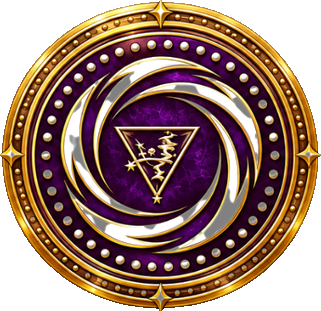
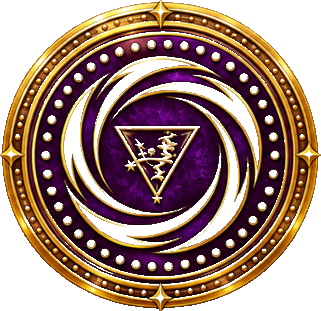
Normalize presentation seal scale and halos

diff --git a/dist/presentacion.html b/dist/presentacion.html
@@ -23,7 +23,7 @@
     .product.soon{opacity:1}.product.soon img{filter:none}
     .line-lockup{display:flex;align-items:center;gap:18px;margin:0 0 28px}.line-lockup a{display:block;width:96px;height:96px;border-radius:50%;transition:transform .25s ease,filter .25s ease}.line-lockup a:hover{transform:translateY(-4px);filter:brightness(1.12)}.line-lockup img{width:100%;height:100%;object-fit:contain;border-radius:50%;filter:drop-shadow(0 0 18px rgba(159,117,65,.42))}.line-lockup p{margin:5px 0 0;color:var(--muted);font:400 15px/1.45 'PT Serif',serif}
     .sample-cards{display:grid;grid-template-columns:repeat(3,1fr);gap:14px;margin-top:38px}.sample-card{display:block;text-decoration:none;padding:10px;border:1px solid var(--line);border-radius:16px;background:rgba(23,7,33,.72);transition:transform .25s ease,border-color .25s ease,box-shadow .25s ease}.sample-card:hover{transform:translateY(-5px);border-color:var(--gold-soft);box-shadow:0 18px 38px rgba(0,0,0,.3)}.sample-card img{display:block;width:100%;aspect-ratio:2/3;object-fit:cover;border-radius:10px}.sample-card b{display:block;margin:10px 2px 3px;color:var(--paper);font:500 20px/1 'Bodoni Moda',serif}.sample-card span{display:block;margin:0 2px 4px;color:var(--gold-soft);font-size:10px;letter-spacing:.12em;text-transform:uppercase}.sample-card small{display:block;margin:0 2px 4px;color:var(--muted);font:400 14px/1.35 'PT Serif',serif}.hero-portal,.panel,.sample-card{animation:rise-in .7s ease both}@keyframes rise-in{from{opacity:.2;transform:translateY(12px)}to{opacity:1;transform:none}}@media(max-width:820px){.sample-cards{grid-template-columns:1fr 1fr}}@media(max-width:520px){.sample-cards{grid-template-columns:1fr}}
-    .orders-grid{display:grid;grid-template-columns:repeat(4,1fr);gap:14px}.order-card{padding:18px 14px 16px;text-align:center;border:1px solid var(--line);border-radius:18px;background:rgba(23,7,33,.28);backdrop-filter:blur(8px);transition:transform .25s ease,border-color .25s ease,box-shadow .25s ease}.order-card:hover{transform:translateY(-5px);border-color:var(--gold-soft);box-shadow:0 18px 38px rgba(0,0,0,.3)}.order-card img{display:block;width:min(150px,100%);aspect-ratio:1;margin:0 auto 12px;object-fit:contain;border-radius:0;mix-blend-mode:normal;filter:drop-shadow(0 0 18px var(--seal-glow,rgba(159,117,65,.45))) drop-shadow(0 0 34px var(--seal-glow,rgba(159,117,65,.18)))}.order-card h3{margin:4px 0 5px;font:500 25px/1 'Bodoni Moda',serif;color:var(--gold-soft)}.order-card .tag{color:var(--gold-soft);font-size:10px;letter-spacing:.16em;text-transform:uppercase}.order-card p{margin:10px 0 0;color:#b9aab8;font:400 14px/1.4 'PT Serif',serif}.order-card:nth-child(1){--seal-glow:rgba(208,109,242,.72)}.order-card:nth-child(2){--seal-glow:rgba(224,62,72,.78)}.order-card:nth-child(3){--seal-glow:rgba(70,140,255,.72)}.order-card:nth-child(4){--seal-glow:rgba(85,190,115,.72)}@media(max-width:820px){.orders-grid{grid-template-columns:repeat(2,1fr)}}@media(max-width:520px){.orders-grid{grid-template-columns:1fr 1fr}.order-card{padding:14px 10px}}
+    .orders-grid{display:grid;grid-template-columns:repeat(4,1fr);gap:14px}.order-card{padding:18px 14px 16px;text-align:center;border:1px solid var(--line);border-radius:18px;background:rgba(23,7,33,.28);backdrop-filter:blur(8px);transition:transform .25s ease,border-color .25s ease,box-shadow .25s ease}.order-card:hover{transform:translateY(-5px);border-color:var(--gold-soft);box-shadow:0 18px 38px rgba(0,0,0,.3)}.order-card img{display:block;width:min(150px,100%);aspect-ratio:1;margin:0 auto 12px;object-fit:contain;border-radius:0;mix-blend-mode:normal;filter:drop-shadow(0 0 18px var(--seal-glow,rgba(159,117,65,.45))) drop-shadow(0 0 34px var(--seal-glow,rgba(159,117,65,.18)))}.order-card:nth-child(1) img{transform:scale(1.28)}.order-card h3{margin:4px 0 5px;font:500 25px/1 'Bodoni Moda',serif;color:var(--gold-soft)}.order-card .tag{color:var(--gold-soft);font-size:10px;letter-spacing:.16em;text-transform:uppercase}.order-card p{margin:10px 0 0;color:#b9aab8;font:400 14px/1.4 'PT Serif',serif}.order-card:nth-child(1){--seal-glow:rgba(208,109,242,.72)}.order-card:nth-child(2){--seal-glow:rgba(224,62,72,.78)}.order-card:nth-child(3){--seal-glow:rgba(70,140,255,.72)}.order-card:nth-child(4){--seal-glow:rgba(85,190,115,.72)}@media(max-width:820px){.orders-grid{grid-template-columns:repeat(2,1fr)}}@media(max-width:520px){.orders-grid{grid-template-columns:1fr 1fr}.order-card{padding:14px 10px}}
   </style>
 </head>
 <body>

diff --git a/presentacion.html b/presentacion.html
@@ -23,7 +23,7 @@
     .product.soon{opacity:1}.product.soon img{filter:none}
     .line-lockup{display:flex;align-items:center;gap:18px;margin:0 0 28px}.line-lockup a{display:block;width:96px;height:96px;border-radius:50%;transition:transform .25s ease,filter .25s ease}.line-lockup a:hover{transform:translateY(-4px);filter:brightness(1.12)}.line-lockup img{width:100%;height:100%;object-fit:contain;border-radius:50%;filter:drop-shadow(0 0 18px rgba(159,117,65,.42))}.line-lockup p{margin:5px 0 0;color:var(--muted);font:400 15px/1.45 'PT Serif',serif}
     .sample-cards{display:grid;grid-template-columns:repeat(3,1fr);gap:14px;margin-top:38px}.sample-card{display:block;text-decoration:none;padding:10px;border:1px solid var(--line);border-radius:16px;background:rgba(23,7,33,.72);transition:transform .25s ease,border-color .25s ease,box-shadow .25s ease}.sample-card:hover{transform:translateY(-5px);border-color:var(--gold-soft);box-shadow:0 18px 38px rgba(0,0,0,.3)}.sample-card img{display:block;width:100%;aspect-ratio:2/3;object-fit:cover;border-radius:10px}.sample-card b{display:block;margin:10px 2px 3px;color:var(--paper);font:500 20px/1 'Bodoni Moda',serif}.sample-card span{display:block;margin:0 2px 4px;color:var(--gold-soft);font-size:10px;letter-spacing:.12em;text-transform:uppercase}.sample-card small{display:block;margin:0 2px 4px;color:var(--muted);font:400 14px/1.35 'PT Serif',serif}.hero-portal,.panel,.sample-card{animation:rise-in .7s ease both}@keyframes rise-in{from{opacity:.2;transform:translateY(12px)}to{opacity:1;transform:none}}@media(max-width:820px){.sample-cards{grid-template-columns:1fr 1fr}}@media(max-width:520px){.sample-cards{grid-template-columns:1fr}}
-    .orders-grid{display:grid;grid-template-columns:repeat(4,1fr);gap:14px}.order-card{padding:18px 14px 16px;text-align:center;border:1px solid var(--line);border-radius:18px;background:rgba(23,7,33,.28);backdrop-filter:blur(8px);transition:transform .25s ease,border-color .25s ease,box-shadow .25s ease}.order-card:hover{transform:translateY(-5px);border-color:var(--gold-soft);box-shadow:0 18px 38px rgba(0,0,0,.3)}.order-card img{display:block;width:min(150px,100%);aspect-ratio:1;margin:0 auto 12px;object-fit:contain;border-radius:0;mix-blend-mode:normal;filter:drop-shadow(0 0 18px var(--seal-glow,rgba(159,117,65,.45))) drop-shadow(0 0 34px var(--seal-glow,rgba(159,117,65,.18)))}.order-card h3{margin:4px 0 5px;font:500 25px/1 'Bodoni Moda',serif;color:var(--gold-soft)}.order-card .tag{color:var(--gold-soft);font-size:10px;letter-spacing:.16em;text-transform:uppercase}.order-card p{margin:10px 0 0;color:#b9aab8;font:400 14px/1.4 'PT Serif',serif}.order-card:nth-child(1){--seal-glow:rgba(208,109,242,.72)}.order-card:nth-child(2){--seal-glow:rgba(224,62,72,.78)}.order-card:nth-child(3){--seal-glow:rgba(70,140,255,.72)}.order-card:nth-child(4){--seal-glow:rgba(85,190,115,.72)}@media(max-width:820px){.orders-grid{grid-template-columns:repeat(2,1fr)}}@media(max-width:520px){.orders-grid{grid-template-columns:1fr 1fr}.order-card{padding:14px 10px}}
+    .orders-grid{display:grid;grid-template-columns:repeat(4,1fr);gap:14px}.order-card{padding:18px 14px 16px;text-align:center;border:1px solid var(--line);border-radius:18px;background:rgba(23,7,33,.28);backdrop-filter:blur(8px);transition:transform .25s ease,border-color .25s ease,box-shadow .25s ease}.order-card:hover{transform:translateY(-5px);border-color:var(--gold-soft);box-shadow:0 18px 38px rgba(0,0,0,.3)}.order-card img{display:block;width:min(150px,100%);aspect-ratio:1;margin:0 auto 12px;object-fit:contain;border-radius:0;mix-blend-mode:normal;filter:drop-shadow(0 0 18px var(--seal-glow,rgba(159,117,65,.45))) drop-shadow(0 0 34px var(--seal-glow,rgba(159,117,65,.18)))}.order-card:nth-child(1) img{transform:scale(1.28)}.order-card h3{margin:4px 0 5px;font:500 25px/1 'Bodoni Moda',serif;color:var(--gold-soft)}.order-card .tag{color:var(--gold-soft);font-size:10px;letter-spacing:.16em;text-transform:uppercase}.order-card p{margin:10px 0 0;color:#b9aab8;font:400 14px/1.4 'PT Serif',serif}.order-card:nth-child(1){--seal-glow:rgba(208,109,242,.72)}.order-card:nth-child(2){--seal-glow:rgba(224,62,72,.78)}.order-card:nth-child(3){--seal-glow:rgba(70,140,255,.72)}.order-card:nth-child(4){--seal-glow:rgba(85,190,115,.72)}@media(max-width:820px){.orders-grid{grid-template-columns:repeat(2,1fr)}}@media(max-width:520px){.orders-grid{grid-template-columns:1fr 1fr}.order-card{padding:14px 10px}}
   </style>
 </head>
 <body>
